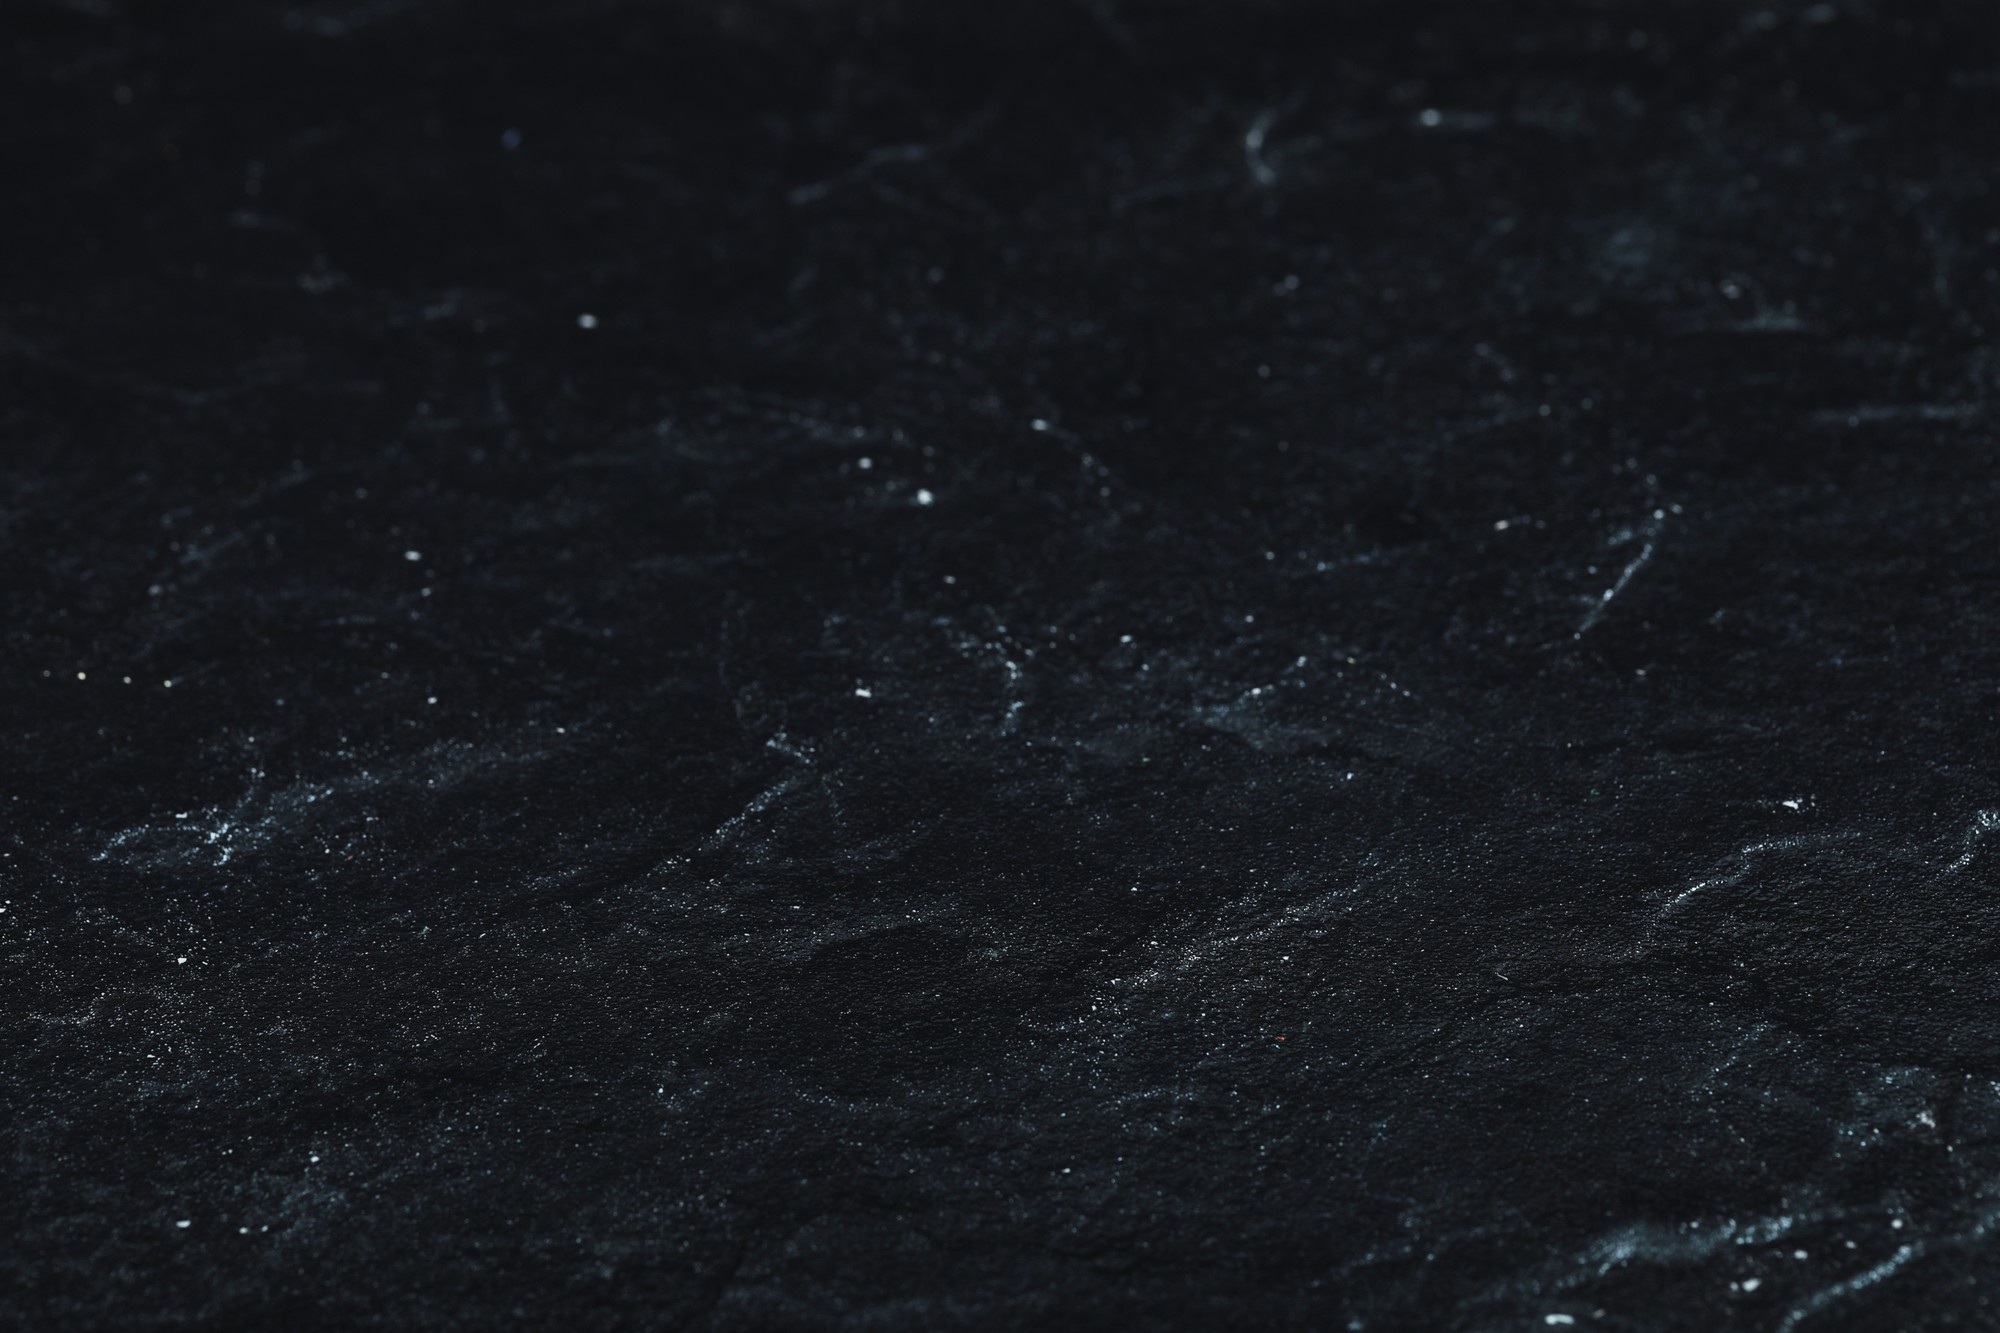
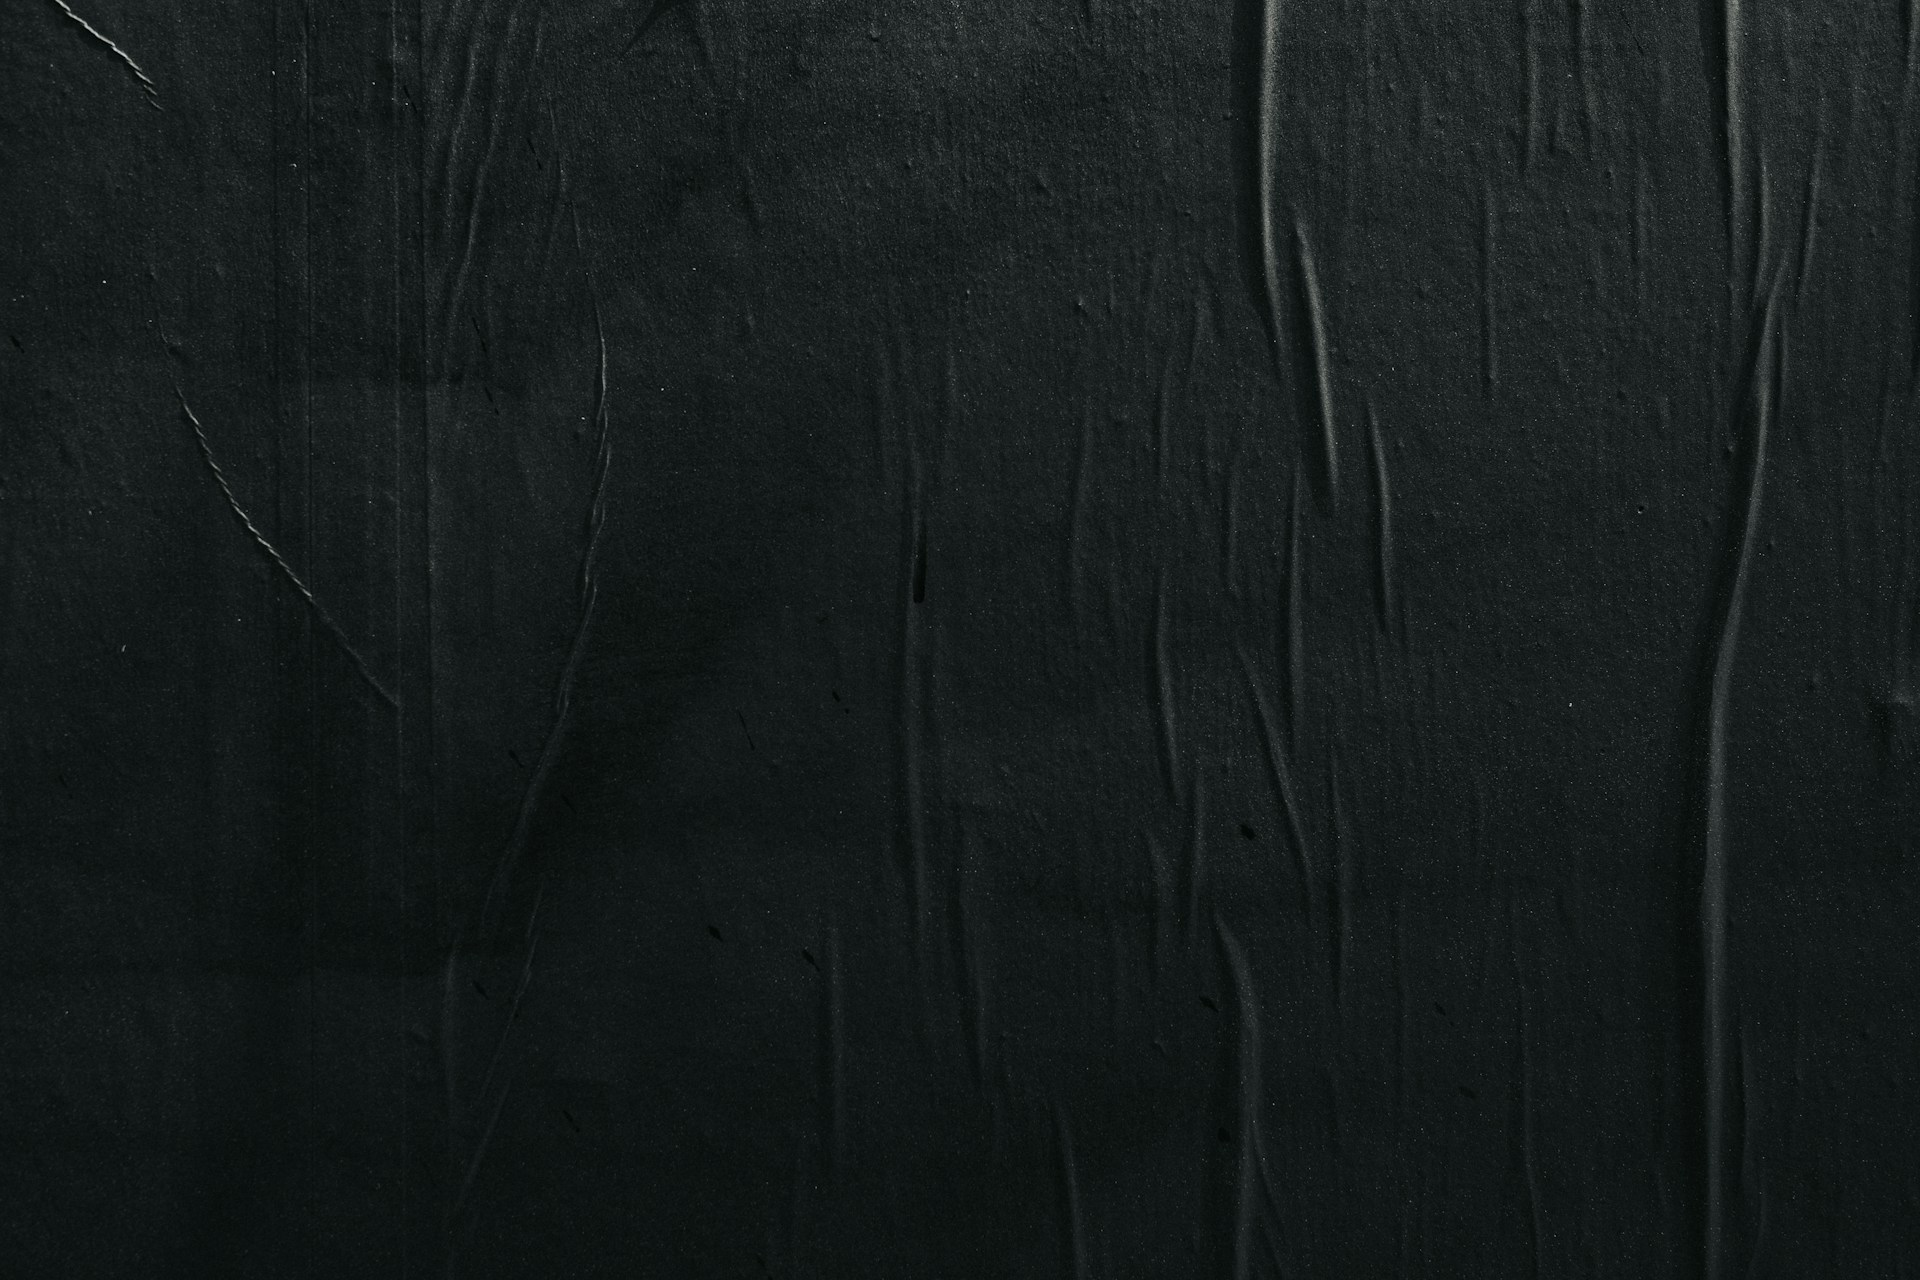
Replaced food background and styles dishes grid

diff --git a/src/styles/menu.css b/src/styles/menu.css
@@ -47,7 +47,7 @@
   background-image: url(../assets/images/food-background.jpg);
   background-size: cover;
   background-repeat: no-repeat;
-  height: 80rem;
+  height: 120rem;
 }
 
 .food-section-title {
@@ -61,34 +61,52 @@
 }
 
 .dishes-container {
+  max-width: 100rem;
   margin-top: 4.5rem;
+  margin-left: auto;
+  margin-right: auto;
   display: grid;
   align-items: center;
-  gap: 1rem;
+  gap: 3rem;
   grid-template-columns: repeat(3, 1fr);
   grid-template-rows: repeat(2, 1fr);
-  justify-items: center;
+  justify-content: center;
 }
 
 .dish-item {
+  justify-self: center;
   display: flex;
   gap: 1rem;
   flex-direction: column;
+  padding: 2rem;
+  padding-bottom: 12rem;
+  background-color: rgba(64, 67, 66, 0.658);
+  border-radius: 20px;
 }
 
 .dish-image {
+  margin-left: auto;
+  margin-right: auto;
   width: 20rem;
   height: 20rem;
 }
 
 .dish-name {
   color: white;
+  text-align: center;
+  font-size: 1.5rem;
 }
 
 .dish-description {
-  color: white;
+  color: rgb(254, 254, 254);
+  width: 30rem;
+  font-size: 1.2rem;
+  font-weight: 400;
+  line-height: 1.5;
 }
 
 .dish-price {
   color: white;
+  font-weight: 900;
+  font-size: 2rem;
 }
